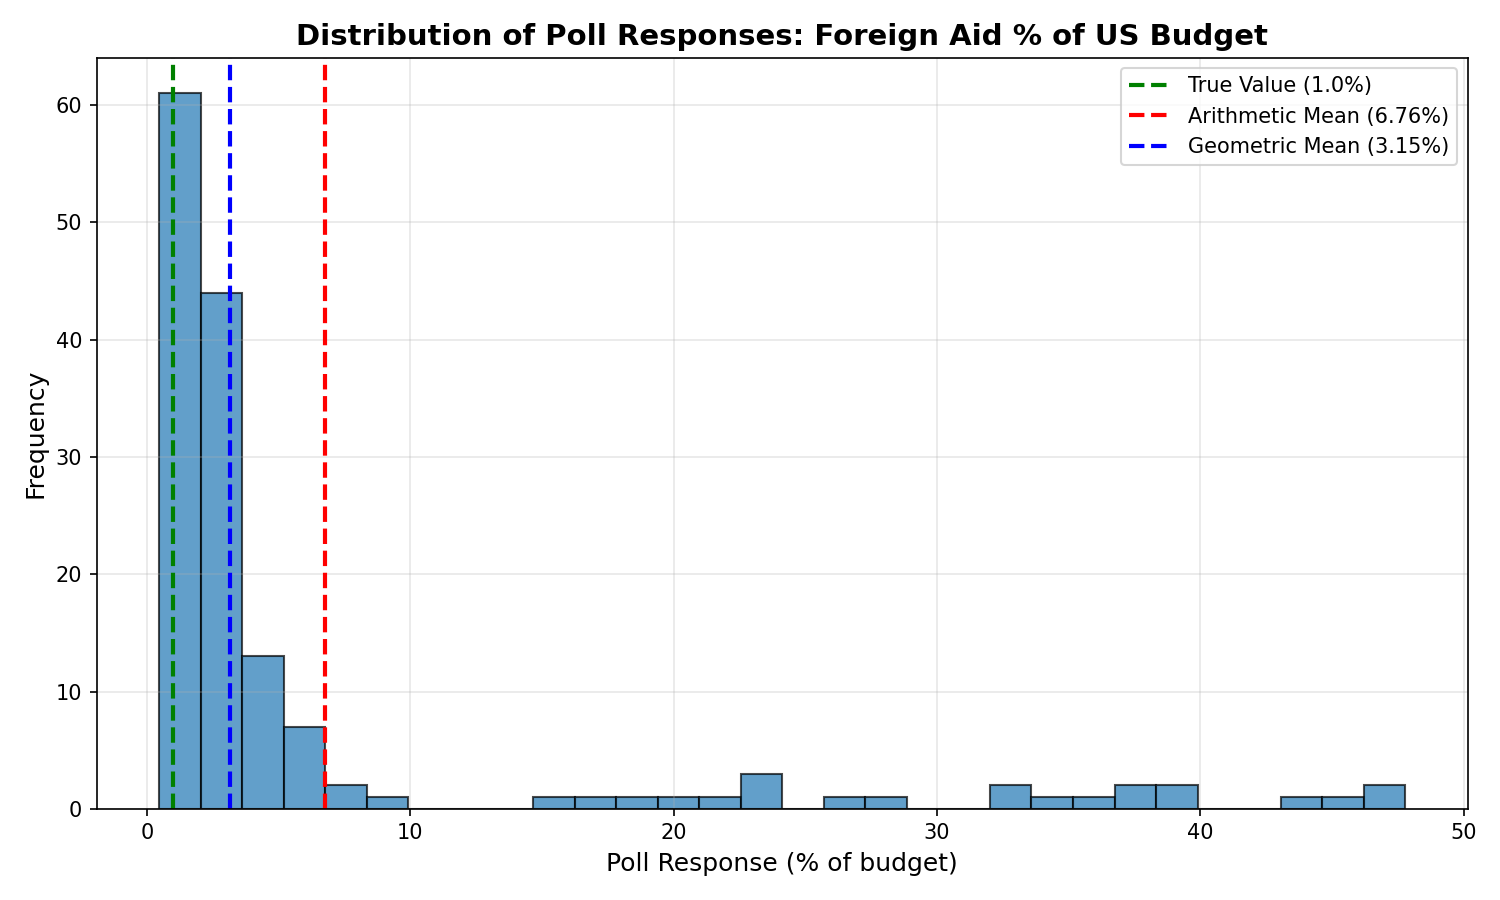
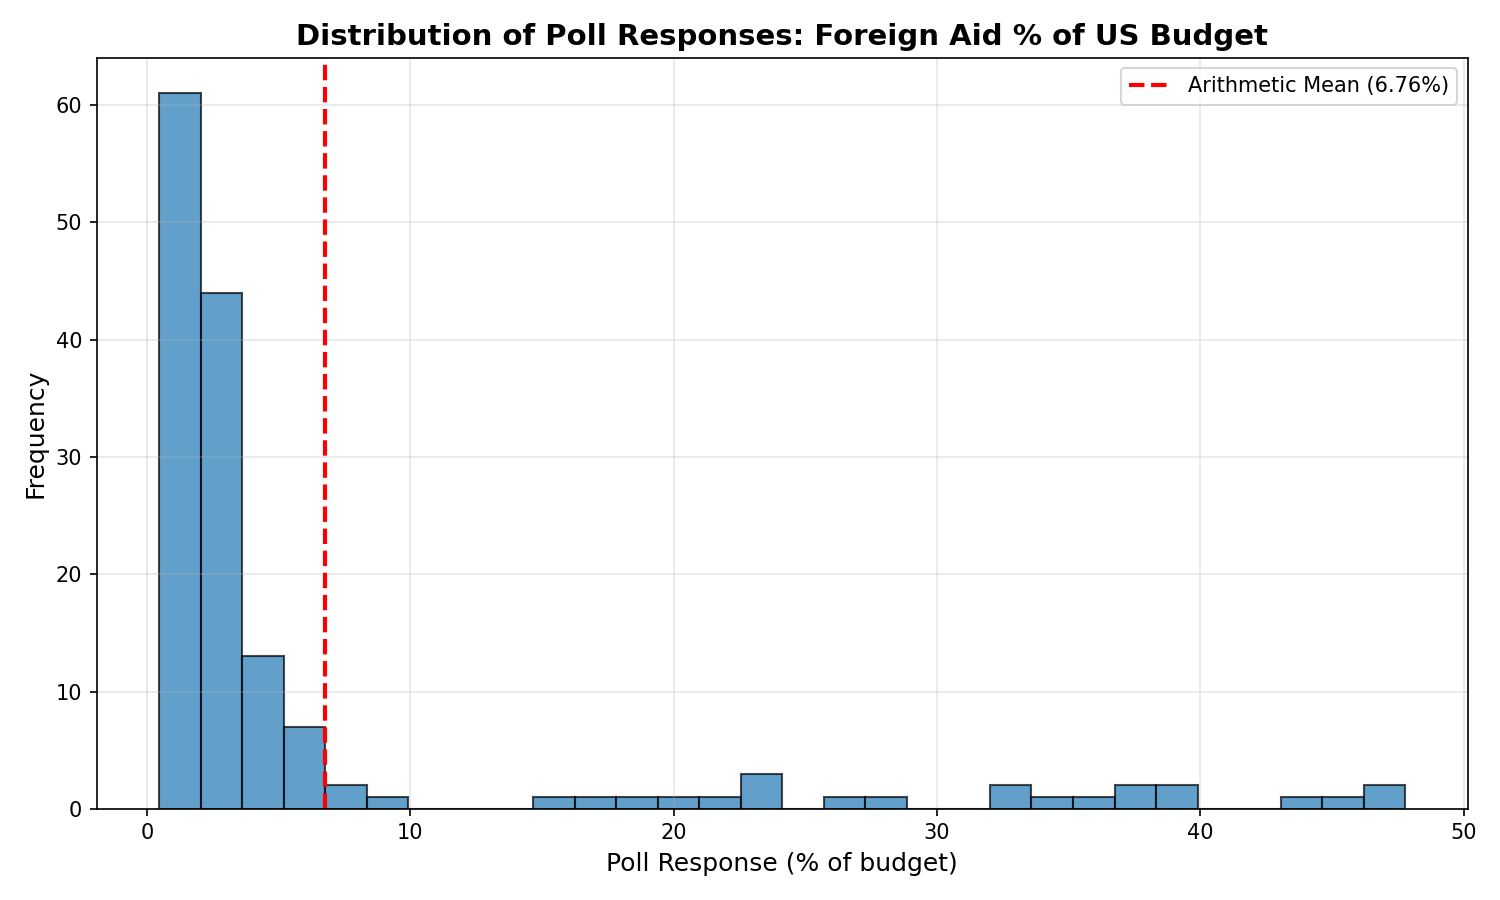
Update

Changed region(s): [[0.736, 0.0622, 0.9813, 0.1867]]

diff --git a/geometric_mean_for_polling/scots_irish_calculation.py b/geometric_mean_for_polling/scots_irish_calculation.py
@@ -1,0 +1,132 @@
+"""
+Calculate how many people guessing 0% would balance out one person guessing 5%
+to achieve a mean of 0.11% (the Wikipedia-reported percentage of Scots-Irish).
+"""
+
+import math
+from typing import Dict, Tuple
+
+
+def calculate_means(guesses: Dict[float, int]) -> Tuple[float, float]:
+    """Calculate geometric and arithmetic means from a dictionary of guesses.
+
+    Args:
+        guesses: Dictionary where keys are guess values (percentages) and
+                 values are the number of people who made that guess.
+                 Example: {5.0: 1, 0.0: 44} means 1 person guessed 5%, 44 guessed 0%
+
+    Returns:
+        Tuple of (arithmetic_mean, geometric_mean)
+        If any guess is 0 or negative, geometric_mean will be 0
+
+    Example:
+        >>> guesses = {5.0: 1, 0.0: 44}
+        >>> arith, geo = calculate_means(guesses)
+        >>> print(f"Arithmetic: {arith:.4f}%, Geometric: {geo:.4f}%")
+    """
+    if not guesses:
+        return 0.0, 0.0
+
+    total_people = sum(guesses.values())
+    if total_people == 0:
+        return 0.0, 0.0
+
+    # Calculate arithmetic mean: sum(guess * count) / total_people
+    weighted_sum = sum(guess * count for guess, count in guesses.items())
+    arithmetic_mean = weighted_sum / total_people
+
+    # Calculate geometric mean: exp(sum(count * log(guess)) / total_people)
+    # Handle zeros and negatives - if any guess <= 0, geometric mean is 0
+    has_non_positive = any(guess <= 0 for guess in guesses)
+    if has_non_positive:
+        geometric_mean = 0.0
+    else:
+        log_sum = sum(count * math.log(guess) for guess, count in guesses.items())
+        geometric_mean = math.exp(log_sum / total_people)
+
+    return arithmetic_mean, geometric_mean
+
+
+def print_log_transformation() -> None:
+    """Print corresponding values between common probability guesses and their natural log transformations.
+
+    This helps visualize how geometric mean works by showing the log-space
+    representation of common values people might guess when estimating probabilities.
+    Uses natural logarithm (ln, base e).
+
+    Example:
+        >>> print_log_transformation()
+    """
+    # Common probability values people might guess
+    values = [0.01, 0.1, 1.0, 5.0, 10.0, 25.0, 50.0]
+
+    print("\n" + "=" * 60)
+    print("Value and Natural Log Transformation Table")
+    print("Common probability guesses and their natural log (ln) transformations")
+    print("=" * 60)
+    print(f"{'Value (%)':<15} {'ln(Value)':<20} {'exp(ln)':<15}")
+    print("-" * 60)
+
+    for value in values:
+        ln_value = math.log(value)  # Natural logarithm
+        exp_value = math.exp(ln_value)  # Should equal value
+        print(f"{value:<15.2f} {ln_value:<20.6f} {exp_value:<15.6f}")
+
+    print("-" * 60)
+    print("Note: Geometric mean = exp(mean(ln(values)))")
+    print("=" * 60)
+
+
+def calculate_balance(target_mean: float, one_guess: float, zero_guess: float = 0.0) -> float:
+    """Calculate the number of people guessing 0% to balance out one person guessing 5%
+    to achieve a mean of 0.11% (the Wikipedia-reported percentage of Scots-Irish).
+    """
+
+    numerator = one_guess - target_mean
+    denominator = target_mean - zero_guess
+
+    if denominator == 0:
+        print("Cannot balance: target mean equals zero guess")
+        return None
+
+    X = numerator / denominator
+
+    print(f"Target mean: {target_mean}%")
+    print(f"One person guesses: {one_guess}%")
+    print(f"Other people guess: {zero_guess}%")
+    print(f"\nTo balance this out, you need {X:.2f} people guessing {zero_guess}%")
+    print("\nVerification:")
+    print(f"  Total people: {1 + X:.2f}")
+    print(f"  Sum of guesses: {one_guess + zero_guess * X:.2f}")
+    print(f"  Mean: {(one_guess + zero_guess * X) / (1 + X):.4f}%")
+
+    return X
+
+
+if __name__ == "__main__":
+    # Example: Scots-Irish calculation
+    target_mean = 0.11  # Wikipedia percentage
+    one_guess = 5.0  # One person's guess
+    result = calculate_balance(target_mean, one_guess, 0.1)
+    print(result)
+
+    # Example: Calculate means from dictionary
+    print("\n" + "=" * 50)
+    print("Example: Calculating means from dictionary")
+    print("=" * 50)
+    guesses = {5.0: 1, 0.1: 50}  # 1 person guessed 5%,
+    arith_mean, geo_mean = calculate_means(guesses)
+    print(f"Guesses: {guesses}")
+    print(f"Arithmetic mean: {arith_mean:.4f}%")
+    print(f"Geometric mean: {geo_mean:.4f}%")
+
+    # Print log transformation table
+    print_log_transformation()
+
+    # Another example with non-zero guesses
+    print("\n" + "-" * 50)
+    guesses2 = {1.0: 10, 2.0: 5, 3.0: 2}  # Various guesses
+    arith_mean2, geo_mean2 = calculate_means(guesses2)
+    print(f"Guesses: {guesses2}")
+    print(f"Arithmetic mean: {arith_mean2:.4f}%")
+    print(f"Geometric mean: {geo_mean2:.4f}%")

diff --git a/geometric_mean_for_polling/geometric_mean_polling.py b/geometric_mean_for_polling/geometric_mean_polling.py
@@ -64,7 +64,26 @@ def create_visualizations(responses, true_value, output_dir='.'):
     # 1. Distribution histogram
     fig, ax = plt.subplots(figsize=(10, 6))
     ax.hist(responses, bins=30, alpha=0.7, edgecolor='black')
-    ax.axvline(true_value, color='green', linestyle='--', linewidth=2, label=f'True Value ({true_value}%)')
+    # ax.axvline(true_value, color='green', linestyle='--', linewidth=2, label=f'True Value ({true_value}%)')
+    ax.axvline(
+        arithmetic_mean, color='red', linestyle='--', linewidth=2, label=f'Arithmetic Mean ({arithmetic_mean:.2f}%)'
+    )
+    # ax.axvline(
+    #     geometric_mean, color='blue', linestyle='--', linewidth=2, label=f'Geometric Mean ({geometric_mean:.2f}%)'
+    # )
+    ax.set_xlabel('Poll Response (% of budget)', fontsize=12)
+    ax.set_ylabel('Frequency', fontsize=12)
+    ax.set_title('Distribution of Poll Responses: Foreign Aid % of US Budget', fontsize=14, fontweight='bold')
+    ax.legend()
+    ax.grid(True, alpha=0.3)
+    plt.tight_layout()
+    plt.savefig(output_path / 'distribution_histogram.png', dpi=150)
+    plt.close()
+
+    # 2. Histogram with geometric mean
+    fig, ax = plt.subplots(figsize=(10, 6))
+    ax.hist(responses, bins=30, alpha=0.7, edgecolor='black')
+    # ax.axvline(true_value, color='green', linestyle='--', linewidth=2, label=f'True Value ({true_value}%)')
     ax.axvline(
         arithmetic_mean, color='red', linestyle='--', linewidth=2, label=f'Arithmetic Mean ({arithmetic_mean:.2f}%)'
     )
@@ -77,25 +96,7 @@ def create_visualizations(responses, true_value, output_dir='.'):
     ax.legend()
     ax.grid(True, alpha=0.3)
     plt.tight_layout()
-    plt.savefig(output_path / 'distribution_histogram.png', dpi=150)
-    plt.close()
-
-    # 2. Linear scale comparison
-    fig, ax = plt.subplots(figsize=(10, 6))
-    ax.hist(responses, bins=30, alpha=0.7, edgecolor='black', color='skyblue')
-    ax.axvline(
-        arithmetic_mean, color='red', linestyle='--', linewidth=2, label=f'Arithmetic Mean ({arithmetic_mean:.2f}%)'
-    )
-    ax.axvline(
-        geometric_mean, color='blue', linestyle='--', linewidth=2, label=f'Geometric Mean ({geometric_mean:.2f}%)'
-    )
-    ax.set_xlabel('Response Value (%)', fontsize=12)
-    ax.set_ylabel('Frequency', fontsize=12)
-    ax.set_title('Linear Scale: Arithmetic vs Geometric Mean', fontsize=14, fontweight='bold')
-    ax.legend()
-    ax.grid(True, alpha=0.3)
-    plt.tight_layout()
-    plt.savefig(output_path / 'linear_scale_comparison.png', dpi=150)
+    plt.savefig(output_path / 'distribution_histogram_geometric_mean.png', dpi=150)
     plt.close()
 
     # 3. Log-scale transformation
